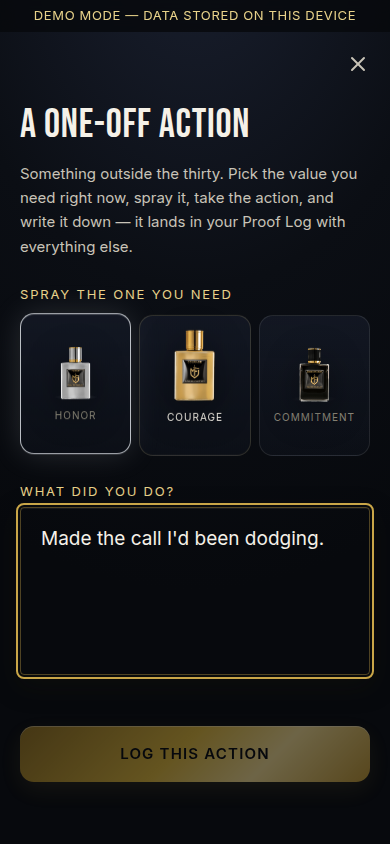
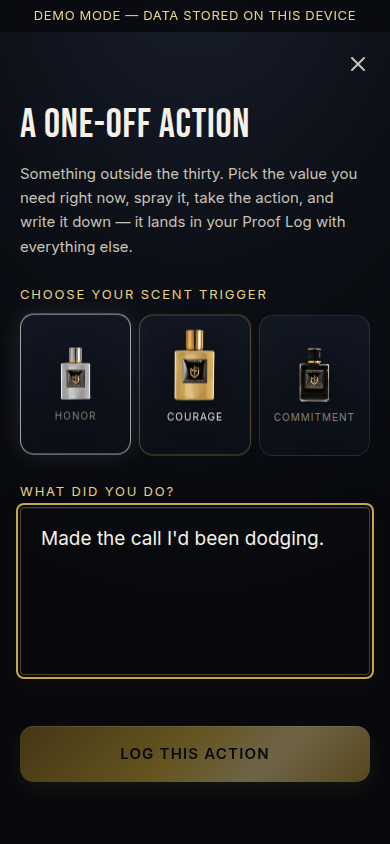
CHOOSE YOUR SCENT TRIGGER
The product's own name for the three bottles, taught on the second
onboarding screen and used nowhere else in the app until now. Still
tenseless, so it works whether he has sprayed yet or not.

Claude-Session: https://claude.ai/code/session_01WVgj5E7JPb9xgPaaNWkVw6

Changed region(s): [[0.0615, 0.3389, 0.6769, 0.4005], [0.4923, 0.4313, 0.5538, 0.4929], [0.1846, 0.4005, 0.2154, 0.4621]]

diff --git a/src/components/FragranceCue.tsx b/src/components/FragranceCue.tsx
@@ -31,11 +31,11 @@ export default function FragranceCue({
 }) {
   return (
     <div className={className}>
-      {/* Tenseless on purpose: "you're wearing" assumes he already sprayed,
-          "you'll wear" assumes he hasn't, and this screen spans both. An
-          imperative also puts the T of S.T.A.R. back on the screen where he
-          is standing when he sprays. */}
-      <p className="eyebrow text-gold-300">SPRAY THE ONE YOU NEED</p>
+      {/* Tenseless on purpose: "the one you're wearing" assumes he already
+          sprayed, "you'll wear" assumes he hasn't, and this screen spans
+          both. Scent Trigger is the product's own name for these, taught on
+          the second onboarding screen. */}
+      <p className="eyebrow text-gold-300">CHOOSE YOUR SCENT TRIGGER</p>
 
       <div
         role="radiogroup"

diff --git a/docs/HANDOFF.md b/docs/HANDOFF.md
@@ -19,7 +19,7 @@ states. The Vivid Vision is archived; its replacement is the compiled, printable
 
 - Owner: Antonio Centeno (product decisions). Team contact: Yuri.
 - Repo: https://github.com/aiexecutionaccelerator/mfapp (branch `main`)
-- Version: 2.5.1 (one input, one click)
+- Version: 2.5.2 (one input, one click)
 
 ## Architecture facts that matter
 
